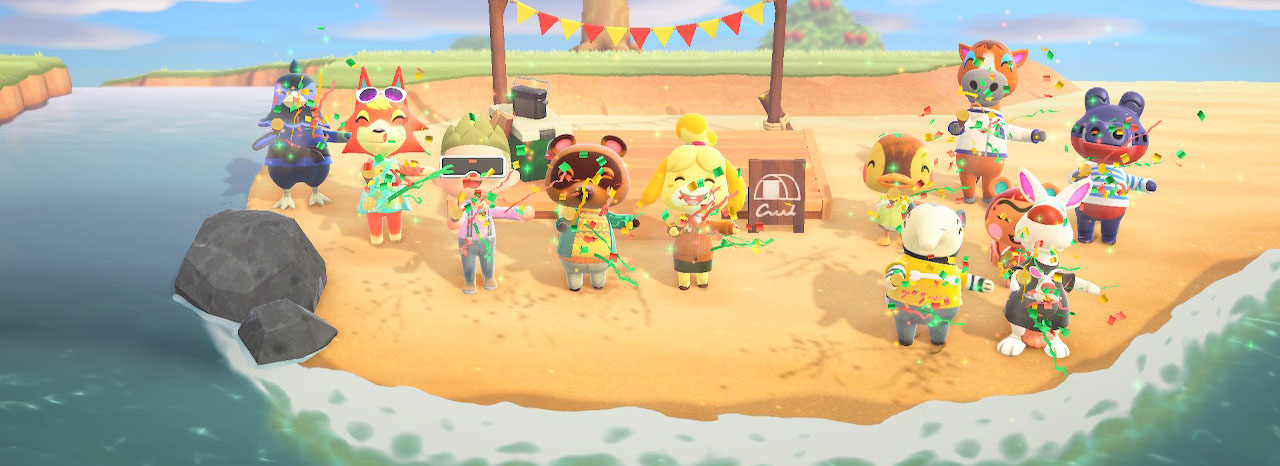
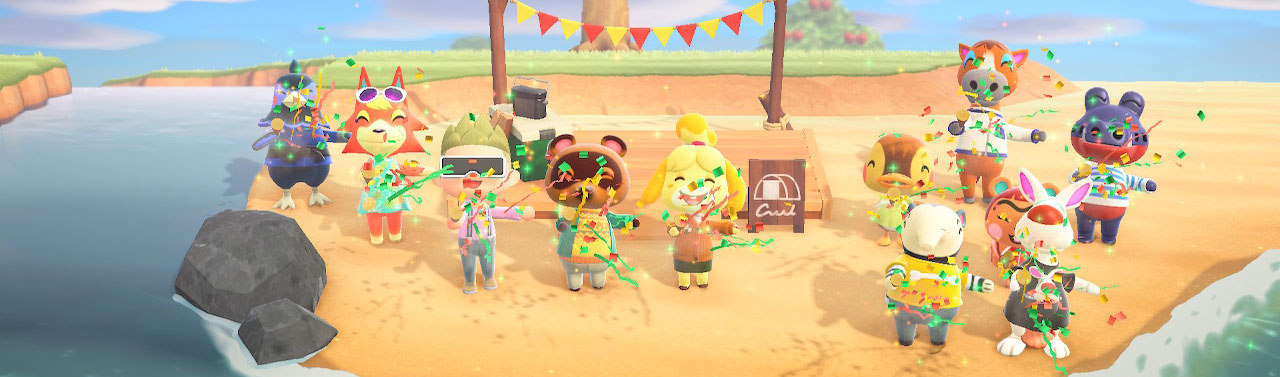
changed header image and added link images

diff --git a/src/App.css b/src/App.css
@@ -25,6 +25,19 @@ html {
   background-color: #86a4ee;
 }
 
+div {
+  background-color: transparent;
+}
+
+ul {
+  background-color: transparent;
+  margin: 15px;
+  padding: 20px;
+}
+
+img {
+  max-width: 100%;
+}
 
 .navbar {
   border-bottom: 1px solid black;
@@ -46,20 +59,24 @@ html {
   border-radius: 10px;
 }
 
+.header-container {
+  border: 1px solid black;
+  border-radius: 10px;
+  margin: 15px 10px 5px 10px;
+}
+
+.container {
+  width: 55%;
+  border: 1px solid black;
+  border-radius: 10px;
+  margin: 15px 10px 15px;
+  padding-bottom: 20px;
+}
+
 .searchbar {
   margin: 10px;
   border: 1px solid black;
   border-radius: 5px;
-}
-
-div {
-  background-color: transparent;
-}
-
-ul {
-  background-color: transparent;
-  margin: 15px;
-  padding: 20px;
 }
 
 .column .card {
@@ -78,16 +95,13 @@ ul {
   font-size: 20px;
 }
 
-.village li {
-  padding: 4px;
+.vil-img  {
+  border-radius: 5px;
+  border: 1px solid black;
 }
 
-.container {
-  width: 55%;
-  border: 1px solid black;
-  border-radius: 10px;
-  margin: 15px 10px 15px;
-  padding-bottom: 20px;
+.village li {
+  padding: 4px;
 }
 
 .footer {
@@ -96,6 +110,7 @@ ul {
   text-align: center;
   border-top: 1px solid black;
 }
+
 .link {
   color: #232d47;
   text-decoration: none;
@@ -103,18 +118,4 @@ ul {
 
 #root li {
   list-style: none;
-}
-
-.vil-img  {
-  border-radius: 5px;
-}
-
-img {
-  max-width: 100%;
-}
-
-.header-container {
-  border: 1px solid black;
-  border-radius: 10px;
-  margin: 15px 10px 15px;
 }

diff --git a/src/Header.js b/src/Header.js
@@ -1,5 +1,5 @@
 import React from 'react';
-import AC2 from './img/AC2.jpg';
+import AC2 from './components/img/AC2.jpg';
 import { Row } from 'react-bootstrap';
 
 function Header() {
